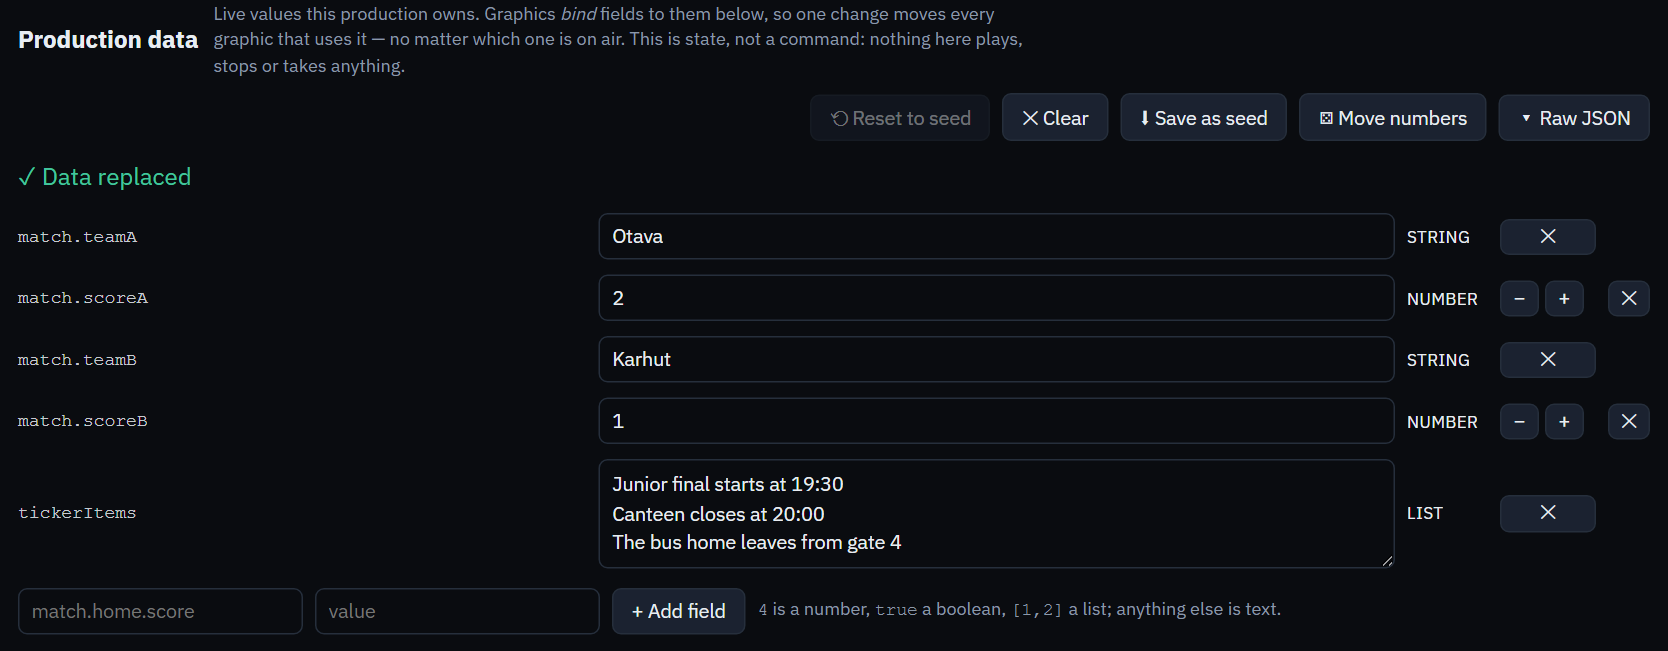
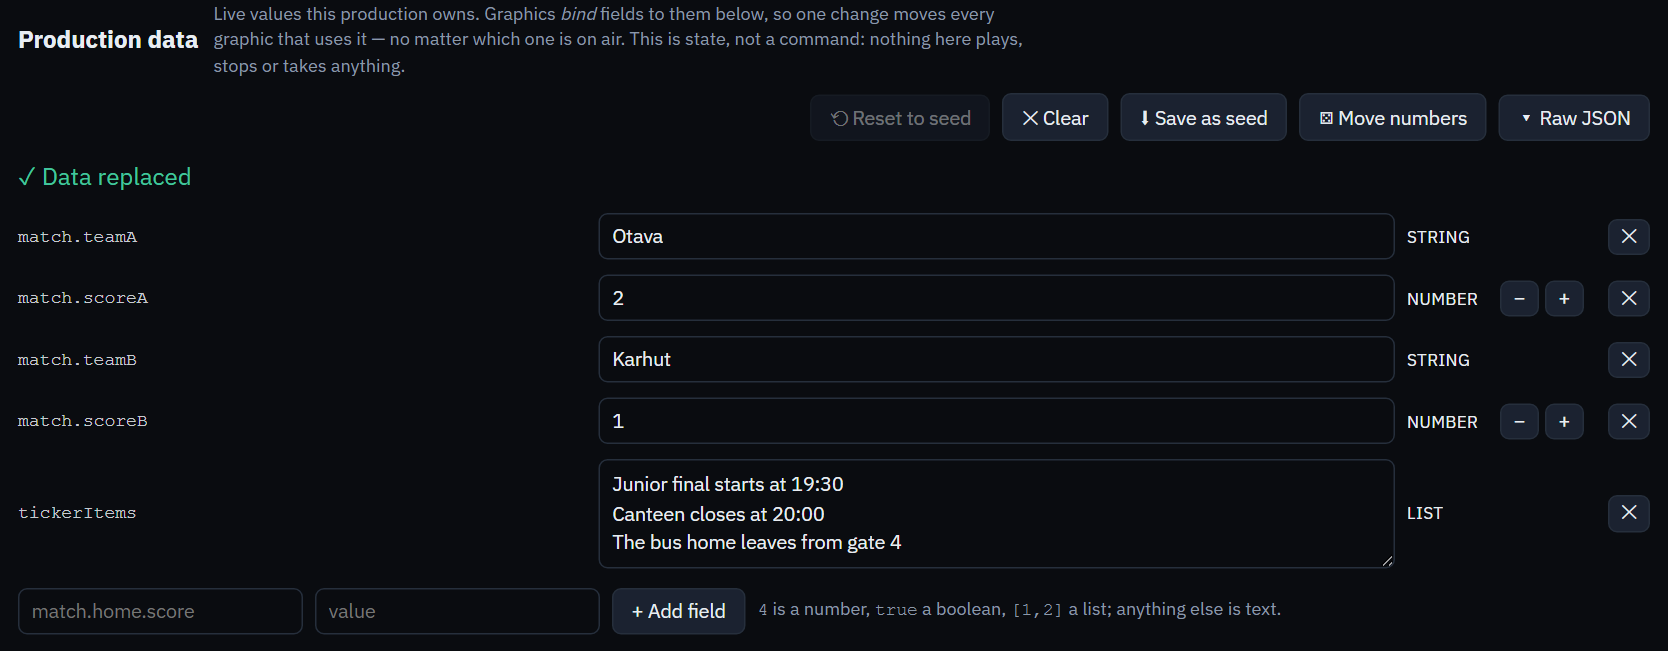
Straighten the second data-panel grid, and two claims the example got wrong
Review of the worked-example branch turned up the same five-column grid defect
one panel up from the one it fixed. `.pd-live-row` reserves a 64px track for
the plus/minus stepper, but that stepper renders only for a NUMBER leaf, so a
string or list row has four children: its delete button fell into the stepper's
track, drew at 64px instead of 28px, and sat forty pixels left of the button on
the row above it. Every child is placed by class now, the way the bindings row
already is, so the stepper's column stays reserved whether or not that row has
one.

The bindings repair had also moved a slab rather than removing one. Column three
is a 0.9fr track and a grid item stretches to fill it, which is invisible on the
value chips - they are text either way - and very visible on the "use <path>"
suggestion button, a content-width control drawn as a 300px bar. Measured
unbound on a two-graphic production: five suggestion buttons at 95 to 107px,
and every row's delete button 28px wide at the same x whatever its leaf type.

Two claims on the docs page were wrong about the example's own graphics. The
tick box that runs a poll's percentages live is gated on a board carrying a
Live figures field, which today means an imported one, so it is not on screen
for the catalog vote board the example uses; the page now says where that
control does and does not appear. And the join page's heading reads "Send us
your question" whichever mode the operator picks, so a step offering Questions
[…]

Changed region(s): [[0.8729, 0.7373, 0.9976, 0.8295], [0.8729, 0.5223, 0.9976, 0.5837], [0.8729, 0.3379, 0.9976, 0.3994]]

diff --git a/docs.html b/docs.html
@@ -1717,7 +1717,7 @@ CG 1-20 STOP</code></pre>
             press.
           </p>
           <figure class="doc-shot">
-            <img src="/docs/data-cue.png" width="1103" height="1095" loading="lazy"
+            <img src="/docs/data-cue.png" width="1103" height="1077" loading="lazy"
               alt="The Match Strip cue on the Playout tab: four read-only fields each labelled with the production-data path it follows, and a row of plus and minus buttons for Score A and Score B." />
             <figcaption>
               <strong>The same values, on the operator's screen.</strong> The chain and the path
@@ -1822,9 +1822,12 @@ CG 1-20 STOP</code></pre>
               print a QR code of it. There is no app to install and nothing to sign in to, which
               is the point.</li>
             <li><strong>Open the door.</strong> On the Audience tab, tick <strong>Accepting
-              messages</strong> and choose <strong>Questions</strong> or
-              <strong>Comments</strong>. Until you do, every phone that has the link says the
-              production is not taking part right now.</li>
+              messages</strong>. Until you do, every phone that has the link says the production
+              is not taking part right now. Hall Cup leaves the mode beside it on
+              <strong>Questions</strong>; <strong>Comments</strong> is the same door asking for
+              something shorter. One thing to know before you pick: the heading on the viewer's
+              page reads "Send us your question" in both, and there is nothing yet that changes
+              it.</li>
           </ol>
           <figure class="doc-shot phone">
             <img src="/docs/audience-join.png" width="1140" height="1332" loading="lazy"
@@ -1882,9 +1885,12 @@ CG 1-20 STOP</code></pre>
             <strong>Stage counts to a graphic</strong> writes the question, the options and the
             numbers into a cue for House Vote, and Take airs it. Press it again while the round is
             still open and that same cue is updated rather than duplicated, so the rundown does not fill up with one row
-            per refresh. By default the figures on air stay put until the operator shows the
-            result. The tick box under the tally is what makes them run live while the vote is
-            open instead.
+            per refresh. The figures on air move when the operator shows the result, not while
+            the room is still voting, which is what keeps a reveal a reveal. A board you
+            <a href="#svg-vote">drew yourself</a> can carry a <strong>Live figures</strong> layer,
+            and the Audience tab then offers a tick box to run the percentages live instead. A
+            catalog board like House Vote has no such layer, so the tick box is not on screen
+            for this show.
           </p>
           <p class="callout truth">
             <span class="lbl">What was and was not run</span>

diff --git a/src/styles/feedback.css b/src/styles/feedback.css
@@ -51,6 +51,11 @@
 .pd-live-head .hint { max-width: 560px; margin: 0; }
 .pd-live-actions { display: flex; align-items: center; gap: 8px; flex-wrap: wrap; margin-left: auto; flex: 0 0 auto; }
 .pd-live-rows { display: flex; flex-direction: column; gap: 4px; margin: 10px 0; }
+/* Every child PLACED, for the reason spelled out on `.pd-bind-row` below: the ± stepper is
+   rendered only for a NUMBER leaf, so a string or list row has four children, the delete ✕ fell
+   into the 64px stepper track and the 28px one went empty. Every text row's ✕ therefore drew
+   twice its size and sat 40px left of the ✕ on the row above it. Reserving the stepper's track
+   whether or not that row has one is what makes the column straight. */
 .pd-live-row {
   display: grid;
   grid-template-columns: minmax(140px, 1fr) minmax(120px, 1.4fr) 54px 64px 28px;
@@ -58,6 +63,12 @@
   gap: 8px;
   padding: 3px 0;
 }
+.pd-live-row > .pd-live-path { grid-column: 1; }
+.pd-live-row > input,
+.pd-live-row > textarea { grid-column: 2; }
+.pd-live-row > .pd-live-type { grid-column: 3; }
+.pd-live-row > .pd-live-step { grid-column: 4; }
+.pd-live-row > .pd-live-del { grid-column: 5; }
 .pd-live-path { font-size: 12px; color: var(--text); opacity: 0.85; overflow-wrap: anywhere; }
 .pd-live-row input { width: 100%; min-width: 0; }
 .pd-live-type { font-size: 11px; color: var(--muted); text-transform: uppercase; letter-spacing: 0.04em; }
@@ -143,7 +154,11 @@
 .pd-bind-field { font-size: 12px; overflow-wrap: anywhere; }
 .pd-bind-field code { color: var(--muted); margin-right: 4px; }
 .pd-bind-row input { width: 100%; min-width: 0; font-family: var(--mono, ui-monospace, monospace); font-size: 12px; }
-.pd-bind-suggest { padding: 2px 8px; font-size: 11px; line-height: 1.5; }
+/* `justify-self`, because column 3 is a 0.9fr track and a grid item stretches to fill one. The
+   value chips beside it are text and read the same either way, but a BUTTON stretched across
+   300px is the slab this row's placement was written to remove, moved one column over. Its own
+   text is its width. */
+.pd-bind-suggest { padding: 2px 8px; font-size: 11px; line-height: 1.5; justify-self: start; }
 .pd-bind-live { font-size: 12px; color: var(--accent); overflow-wrap: anywhere; }
 .pd-bind-miss { font-size: 11px; color: var(--muted); font-style: italic; }
 .pd-bind-ambiguous { font-size: 11px; color: var(--muted); font-style: italic; overflow-wrap: anywhere; }

diff --git a/e2e/docs.spec.ts b/e2e/docs.spec.ts
@@ -285,8 +285,10 @@ test('the worked example carries one show a reader can copy exactly', async ({ p
   await page.goto('/docs');
   const example = page.locator('#data-example');
 
-  // (a) THE ADDRESSES. Both are linked from outside this page - the app's Data tab points at
-  // #data-example - so they survive a restructure even when their headings move.
+  // (a) THE ADDRESSES. `#data-example` and `#audience-no-chat` are what the Live data and
+  // Audience sections above hand off to, and the app's own Data tab is meant to point at the
+  // first (its panel already deep-links `/docs#data-api` the same way). Pinned here so they
+  // survive a restructure even when the headings around them move.
   await expect(page.locator('section[id="data-example"]')).toHaveCount(1);
   await expect(example.locator('[id="audience-no-chat"]')).toHaveCount(1);
   await expect(page.locator('.doc-nav a[href="#data-example"]')).toHaveCount(1);
@@ -331,9 +333,9 @@ test('the worked example carries one show a reader can copy exactly', async ({ p
 //
 // EVERY `.doc-shot` on the page, not just the SVG guide's. The guide was the only section with
 // pictures when this was written and the selector said so, which meant the worked example's
-// six shots (#data-example, 2026-09-16) shipped past the one gate that would have caught a
-// squashed or missing one. The count is asserted as a floor per section instead, so a shot
-// that is DELETED is caught while adding one costs no edit here.
+// shots (#data-example, 2026-09-16) would have shipped past the one gate that catches a
+// squashed or missing one. Each section's count is asserted too, so a shot that is quietly
+// DELETED fails here rather than leaving a paragraph pointing at nothing.
 test('every docs screenshot loads at the size the page reserved for it', async ({ page }) => {
   await page.goto('/docs');
   await expect(page.locator('#svg .doc-shot img')).toHaveCount(3);

diff --git a/src/docs/docs.css b/src/docs/docs.css
@@ -199,13 +199,13 @@ td strong { color: var(--paper); }
 /* A picture of a PHONE page, which is portrait and about 380px wide. Stretched to the 780px
    column like every other shot it is a blurry upscale, and it dwarfs the section it illustrates,
    so it is published near the size it was captured and centred. It is captured at 3x device
-   scale for the same reason: this one is not shrunk to a third on the way in. */
+   scale for the same reason: this one is not shrunk to a third on the way in. Only the IMAGE
+   narrows - the caption keeps the column, because narrowed to match it starts 90px in from
+   every other line on the page and reads as an indent. */
 .doc-shot.phone img { width: auto; max-width: 360px; margin: 0 auto; }
 .doc-shot figcaption {
   margin-top: 8px; font-size: 13px; color: var(--faint); line-height: 1.55;
 }
-/* The caption keeps the column, even though its picture does not: narrowed and centred under a
-   360px image it starts 90px in from every other line of the page and reads as an indent. */
 .doc-shot figcaption strong { color: var(--dim); }
 
 /* Callouts: plain fact panels. `.truth` is the honesty callout — what has and has not
